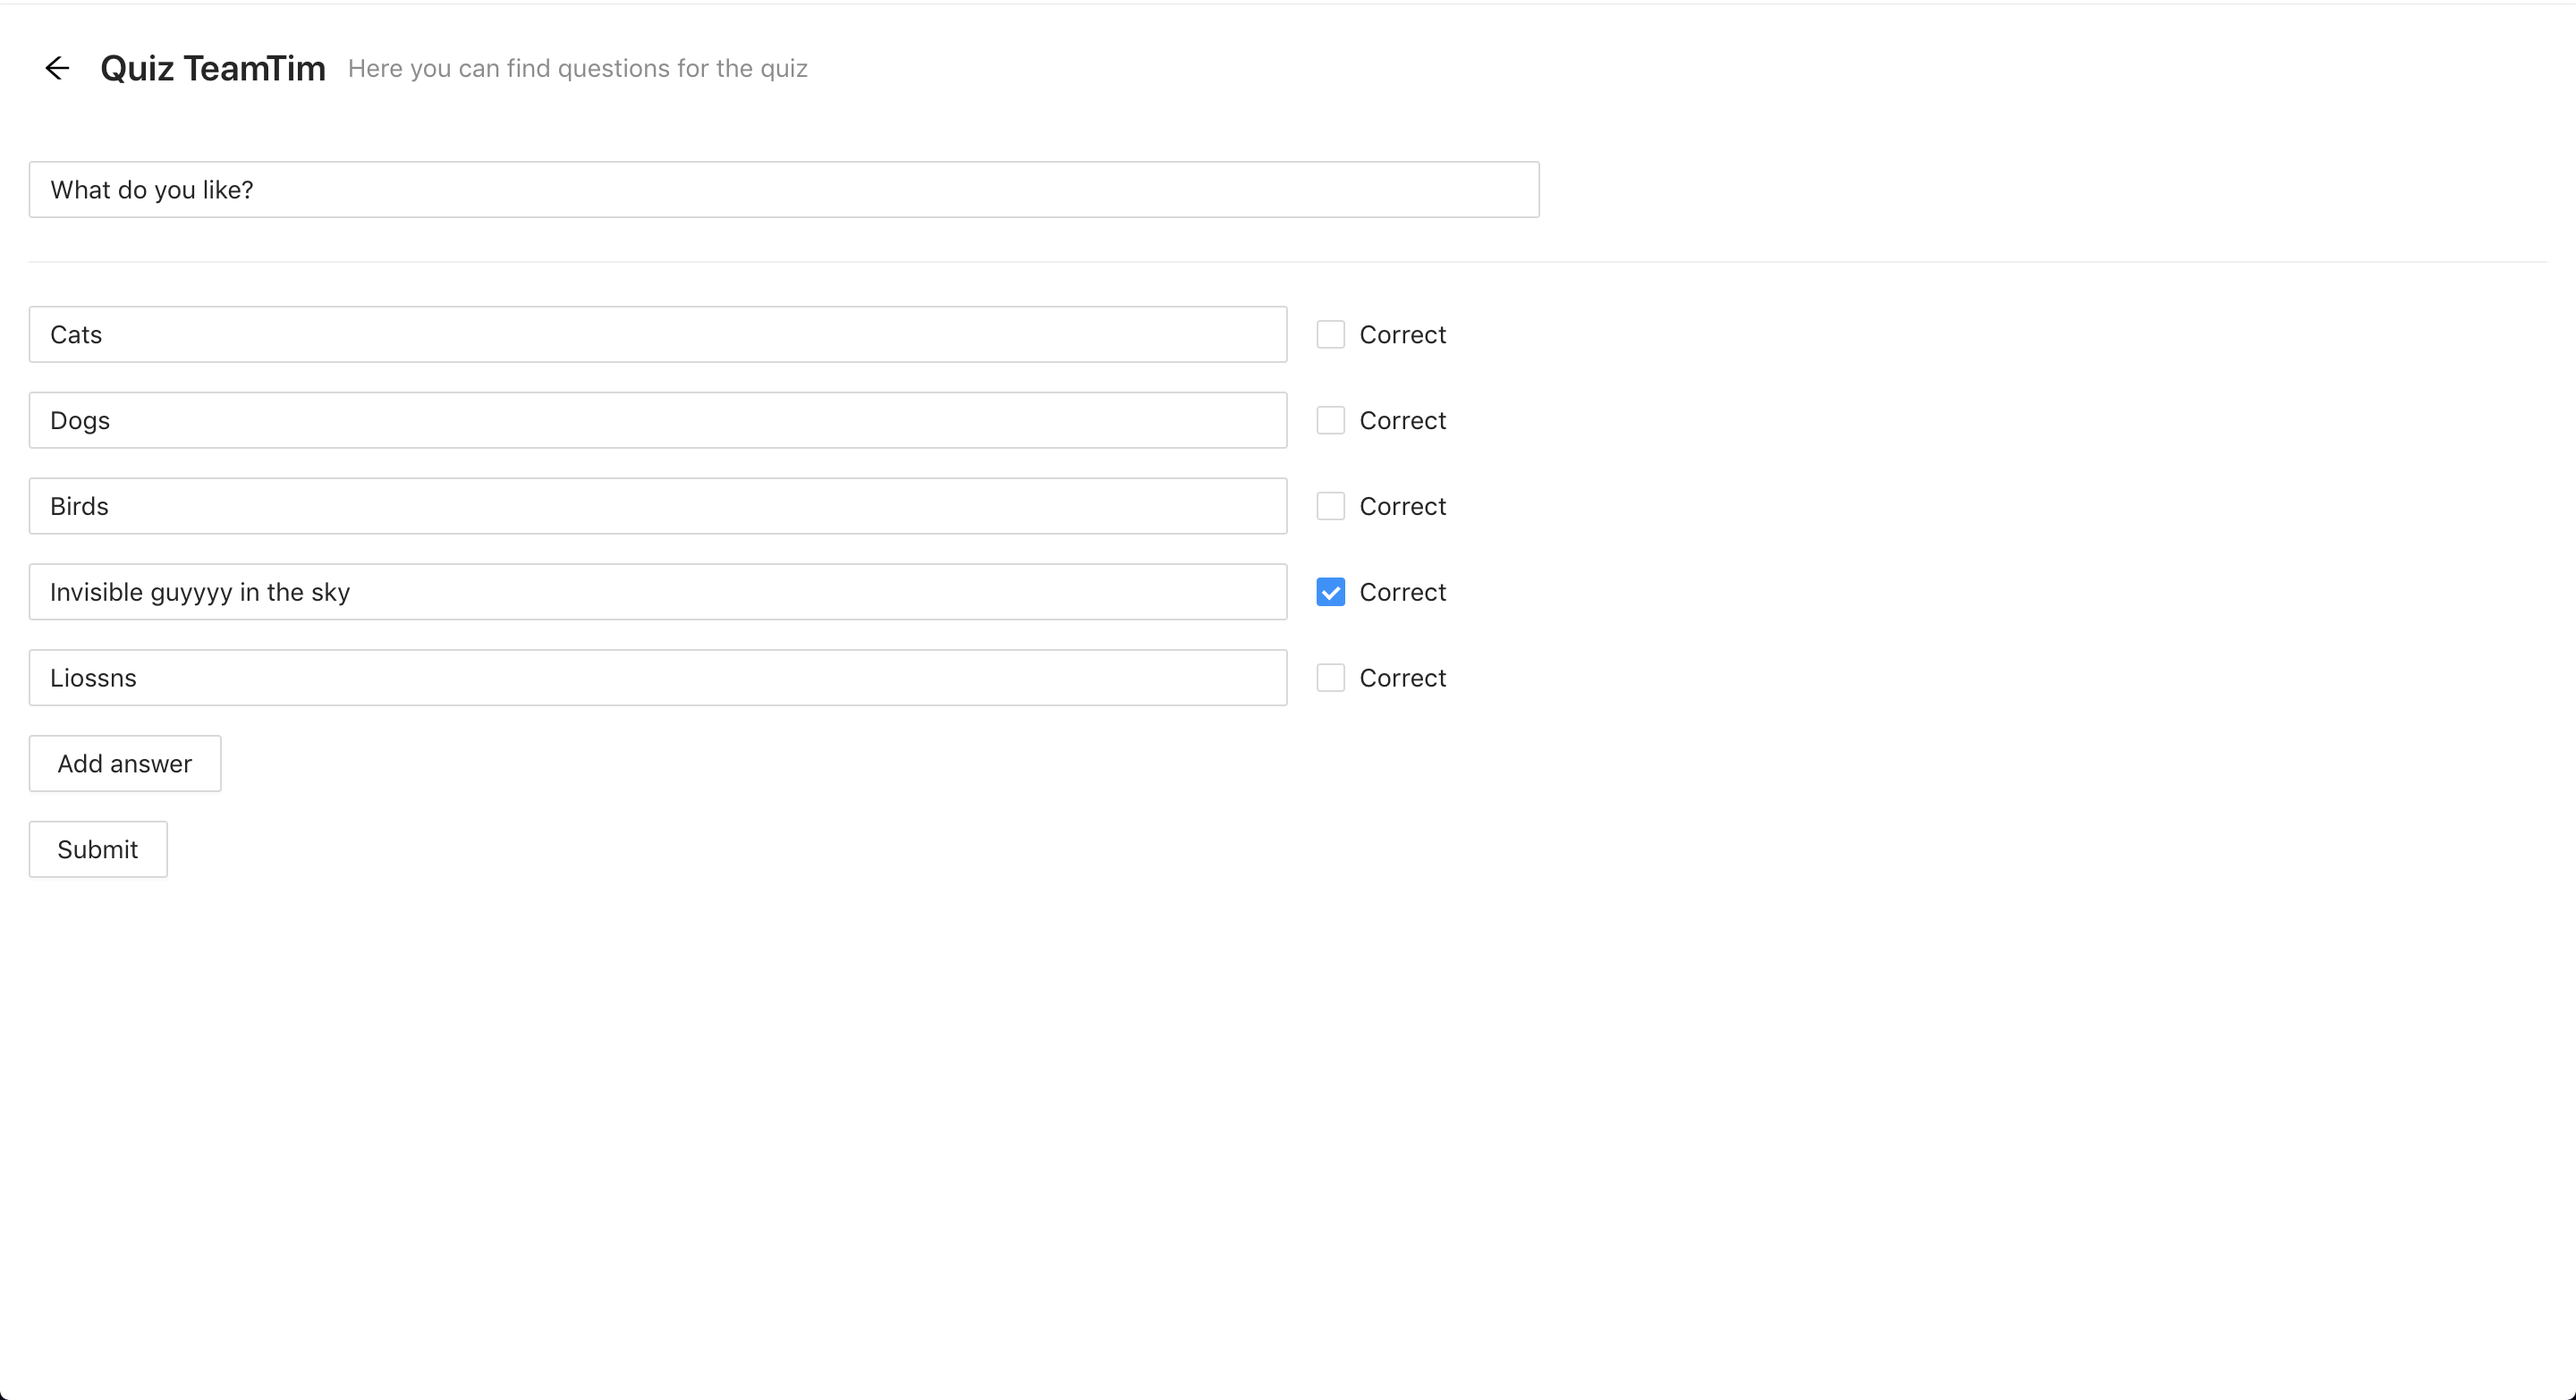
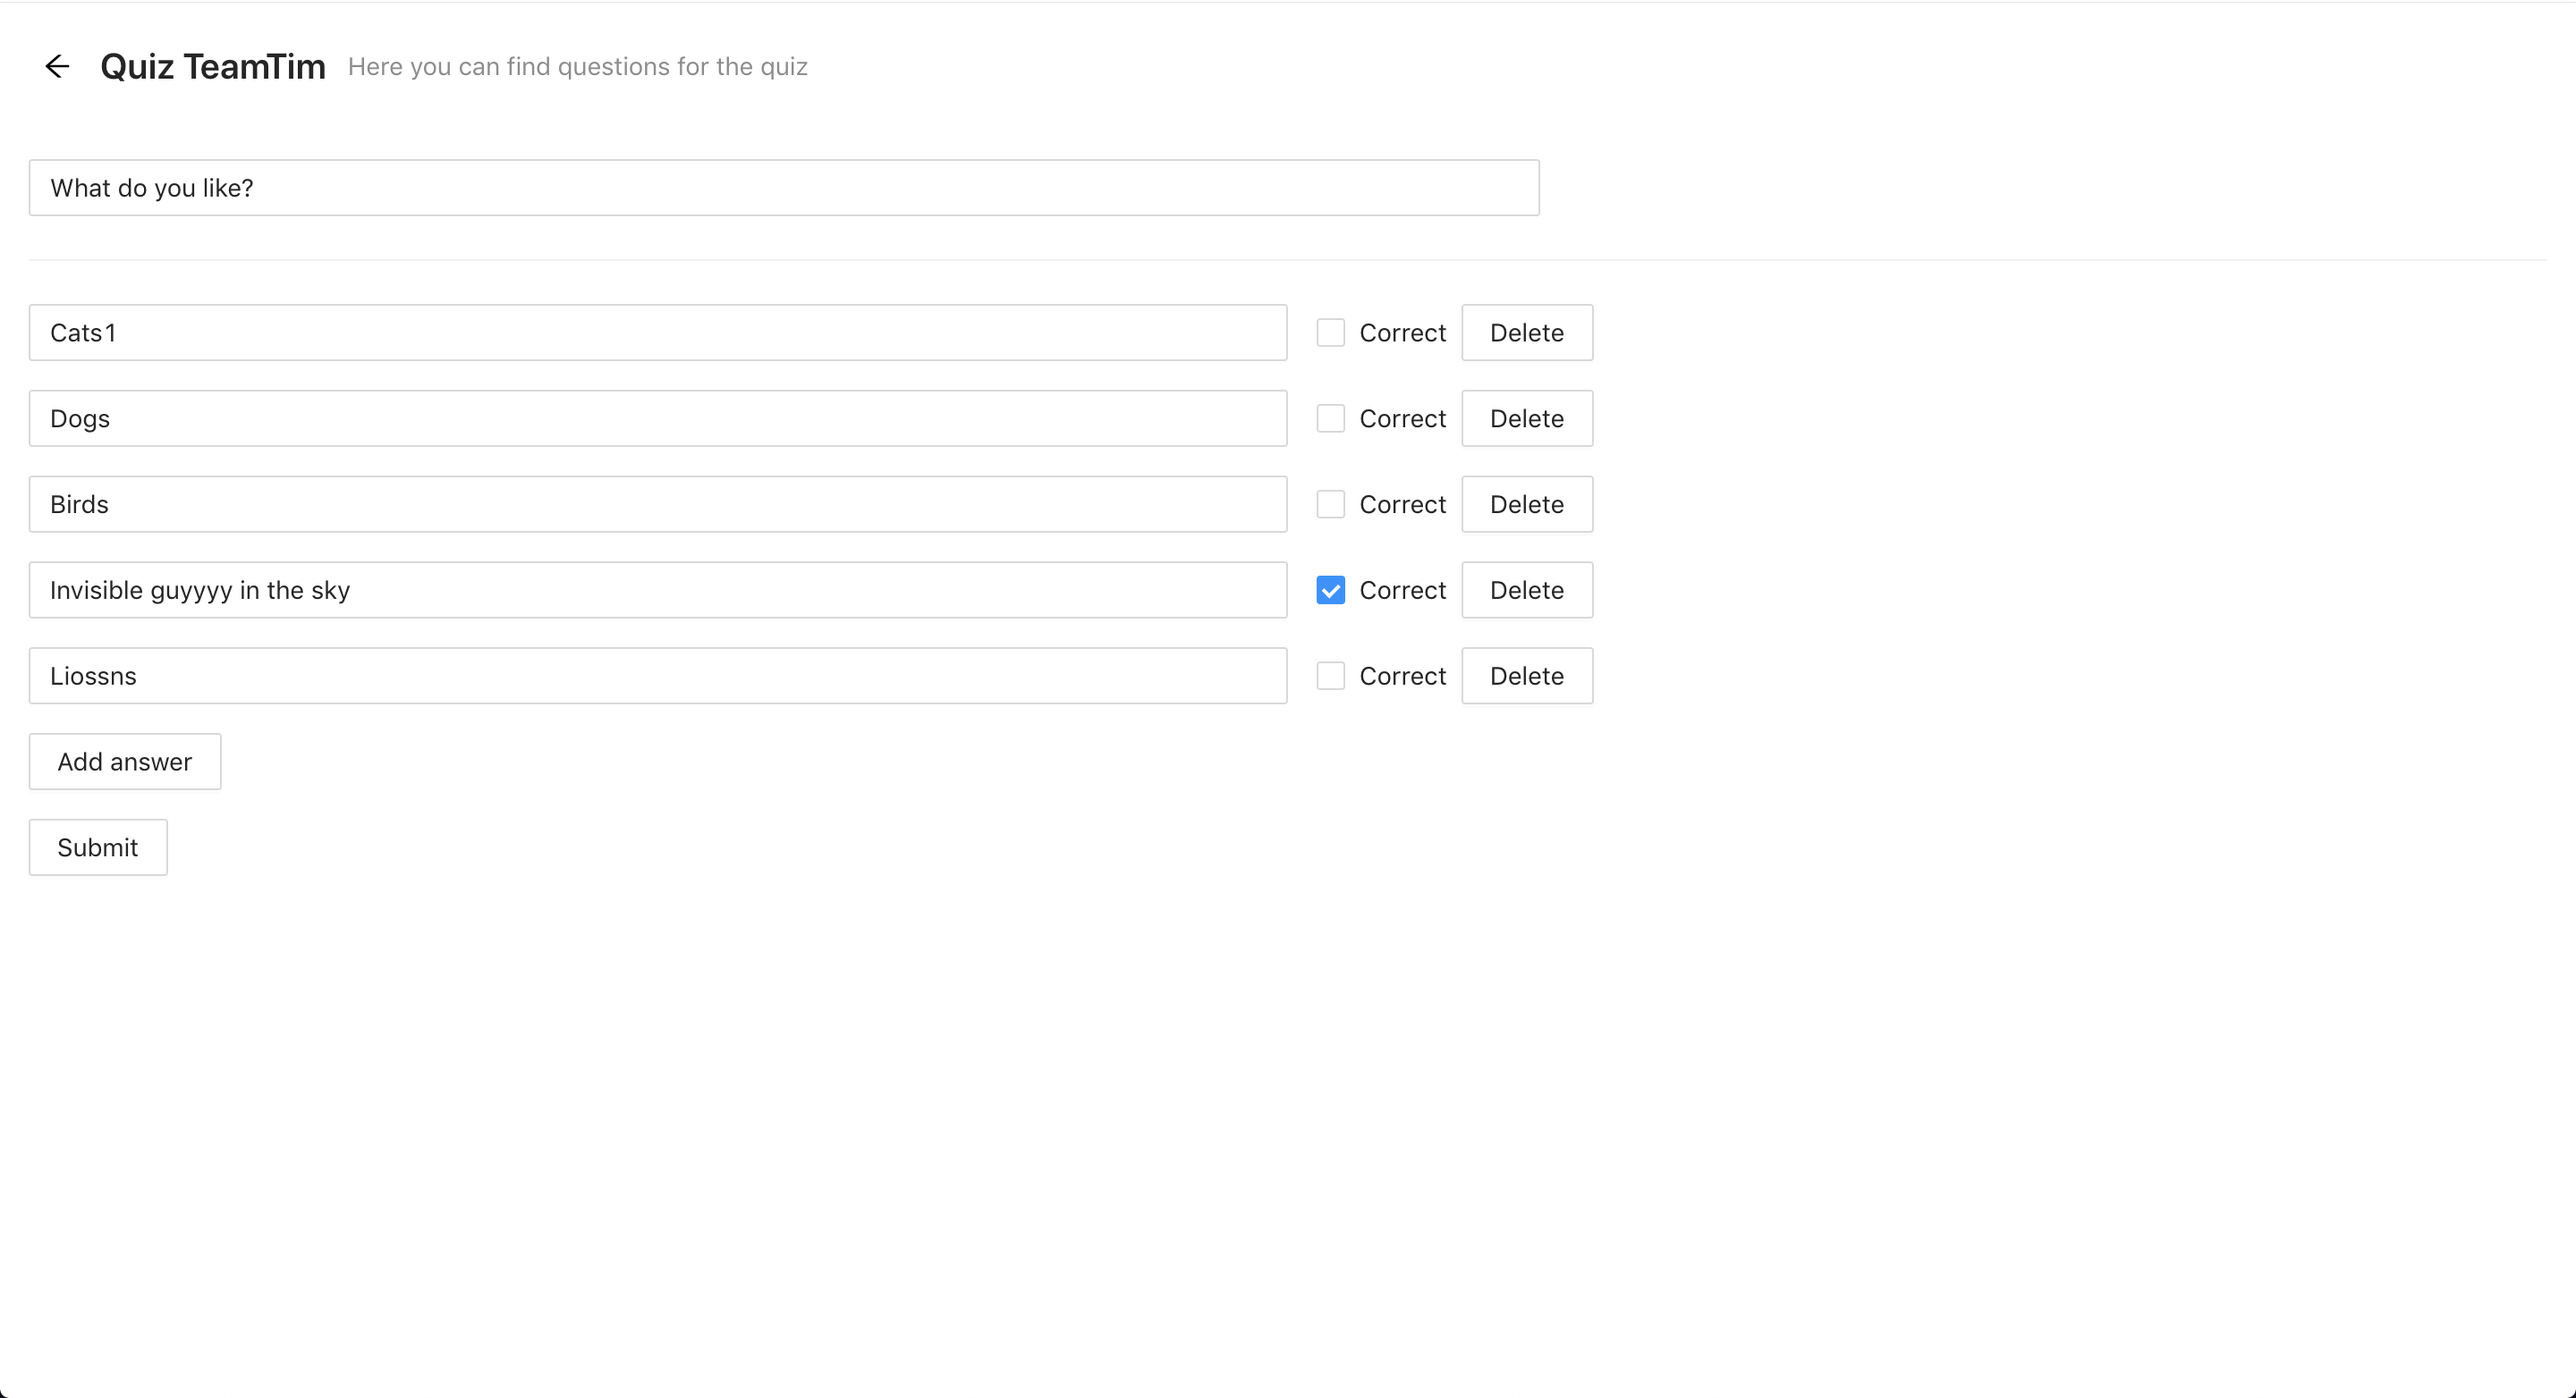
Answer deletion and loading handling

diff --git a/quiz_front/src/components/QuestionPage.tsx b/quiz_front/src/components/QuestionPage.tsx
@@ -1,9 +1,9 @@
-import {Question} from "./Question/Question";
-import React, {useEffect, useState} from "react";
+import React, {useCallback, useEffect, useState} from "react";
 import axios, {AxiosResponse} from "axios";
 import {baseUrl} from "../config/Config";
 import {QuestionModel} from "../models/QuestionModel";
-import {Empty} from "antd";
+import {Empty, Result, Spin} from "antd";
+import {Question} from "./Question/Question";
 import {EditQuestion} from "./EditQuestion/EditQuestion";
 
 export enum QuestionMode {
@@ -19,27 +19,45 @@ interface QuestionPageProps {
 
 export const QuestionPage: React.FC<QuestionPageProps> = ({id, mode}) => {
     const [question, setQuestion] = useState<QuestionModel | undefined>(undefined);
+    const [success, setSuccess] = useState(false);
+
+    const [loading, setLoading] = useState<boolean>(false)
 
     useEffect(() => {
         if (!id) {
             return;
         }
 
+        setLoading(true);
+
         axios.get(baseUrl(`question/${id}`))
             .then(function (response: AxiosResponse<QuestionModel>) {
                 setQuestion(response.data);
+                setLoading(false);
             });
     }, [])
 
-    console.log(mode)
-    console.log(mode === QuestionMode.new)
+    const successHandler = useCallback(() => setSuccess(true), [setSuccess]);
+
+    if (loading) {
+        return <div style={{textAlign: 'center'}}><Spin /></div>;
+    }
 
     return (
         <>
-            {!question?.text && mode !== QuestionMode.new && <Empty />}
-            {question?.text && mode === QuestionMode.view && <Question question={question}/>}
-            {question?.text && mode === QuestionMode.edit && <EditQuestion question={question}/>}
-            {mode === QuestionMode.new && <EditQuestion />}
+            {
+                success ?
+                    <Result
+                        status="success"
+                        title="Successfully"
+                    /> :
+                    <>
+                        {!question?.text && mode !== QuestionMode.new && <Empty />}
+                        {question?.text && mode === QuestionMode.view && <Question question={question}/>}
+                        {question?.text && mode === QuestionMode.edit && <EditQuestion question={question} onSuccess={successHandler}/>}
+                        {mode === QuestionMode.new && <EditQuestion onSuccess={successHandler} />}
+                    </>
+            }
         </>
     )
 }

diff --git a/quiz_front/src/components/EditQuestion/EditQuestion.tsx b/quiz_front/src/components/EditQuestion/EditQuestion.tsx
@@ -9,10 +9,11 @@ import axios, {AxiosResponse} from "axios";
 import {baseUrl} from "../../config/Config";
 
 interface EditQuestionProps {
-    question?: QuestionModel
+    question?: QuestionModel;
+    onSuccess: () => void;
 }
 
-export const EditQuestion: React.FC<EditQuestionProps> = ({question}) => {
+export const EditQuestion: React.FC<EditQuestionProps> = ({question, onSuccess}) => {
     const [questionText, setQuestionText] = useState<string>(question?.text || '');
     const [answers, setAnswers] = useState<Partial<AnswerModel>[]>(question?.answers || []);
 
@@ -32,14 +33,14 @@ export const EditQuestion: React.FC<EditQuestionProps> = ({question}) => {
         if (question?.id) {
             axios.put(baseUrl(`question`), {text: questionText, answers, id: question.id})
                 .then(function (response: AxiosResponse) {
-                    console.log(response)
+                    onSuccess();
                 })
                 .catch(error => message.error(error.message))
             ;
         } else {
             axios.post(baseUrl(`question`), {text: questionText, answers})
                 .then(function (response: AxiosResponse) {
-                    console.log(response)
+                    onSuccess();
                 })
                 .catch(error => message.error(error.message))
             ;
@@ -78,6 +79,13 @@ export const EditQuestion: React.FC<EditQuestionProps> = ({question}) => {
             })
         }
 
+    const answerDeletionHandler = (index: number) =>
+        () => {
+            setAnswers(answers => {
+                return answers.filter((answer, answerIndex) => index !== answerIndex)
+            })
+        }
+
     return (
         <div>
             <Input
@@ -103,6 +111,7 @@ export const EditQuestion: React.FC<EditQuestionProps> = ({question}) => {
                                     onChange={answerCorrectnessChangeHandler(index)}
                                 >Correct</Checkbox>
                             </span>
+                            <Button onClick={answerDeletionHandler(index)}>Delete</Button>
                         </div>
                     )
                 })

diff --git a/quiz_front/src/components/QuestionsPage/QuestionsPage.tsx b/quiz_front/src/components/QuestionsPage/QuestionsPage.tsx
@@ -1,19 +1,27 @@
-import React, {useState} from 'react';
+import React, {useCallback, useState} from 'react';
 import {QuestionList} from "../QuestionsList/QuestionList";
 import {Switch} from "antd";
 
 import './QuestionsPage.css'
 
 export const QuestionsPage = () => {
-    const [editMode, setEditMode] = useState(false);
+    const initialEditMode = localStorage.getItem('editMode') === 'true';
+    const [editMode, setEditMode] = useState(initialEditMode);
+
+    const editModeChangeHandler = useCallback(() => {
+        const value = !editMode;
+
+        setEditMode(value);
+        localStorage.setItem('editMode', String(value));
+    }, [editMode, setEditMode])
 
     return (
         <div className="QuestionsPage">
             <div className="QuestionsPage-Mode">
                 Turn on edit mode
-                <Switch checked={editMode} onChange={() => setEditMode(!editMode)} />
+                <Switch checked={editMode} onChange={editModeChangeHandler}/>
             </div>
-            <QuestionList editMode={editMode} />
+            <QuestionList editMode={editMode}/>
         </div>
     );
 }

diff --git a/quiz_front/src/components/QuestionsList/QuestionList.tsx b/quiz_front/src/components/QuestionsList/QuestionList.tsx
@@ -1,7 +1,7 @@
 import axios, {AxiosResponse} from "axios";
 import {baseUrl} from "../../config/Config";
 import React, {useEffect, useState} from "react";
-import {Button, Empty, List} from "antd";
+import {Empty, List, Skeleton} from "antd";
 
 import './QuestionList.css';
 import {Link} from "react-router-dom";
@@ -15,12 +15,21 @@ interface QuestionListProps {
 
 export const QuestionList: React.FC<QuestionListProps> = ({editMode}) => {
     const [questions, setQuestions] = useState<QuestionModel[]>([])
+    const [loading, setLoading] = useState<boolean>(false)
+
     useEffect(() => {
+        setLoading(true);
+
         axios.get(baseUrl("question"))
             .then(function (response: AxiosResponse<QuestionModel[]>) {
                 setQuestions(response.data);
+                setLoading(false);
             });
     }, [])
+
+    if (loading) {
+        return <Skeleton active/>
+    }
 
     if (!questions || !questions.length) {
         return <Empty />;

diff --git a/quiz_front/src/components/QuestionsList/QuestionList.css b/quiz_front/src/components/QuestionsList/QuestionList.css
@@ -6,3 +6,12 @@
 .ant-list.QuestionsList {
     margin-bottom: 16px;
 }
+
+.ant-spin.QuestionsList-Spin {
+    text-align: center;
+    background: rgba(0, 0, 0, 0.05);
+    border-radius: 4px;
+    margin-bottom: 20px;
+    padding: 30px 50px;
+    margin: 20px 0;
+}

diff --git a/quiz_front/README.md b/quiz_front/README.md
@@ -38,5 +38,6 @@ Also you can create new one
 You can create question
 ![questions](./readmeImages/questionCreation.png)
 
-You can change question text, answers text and add answers
+You can change question text, 
+answers text and add/delete answers
 ![questions](./readmeImages/questionEdition.png)
